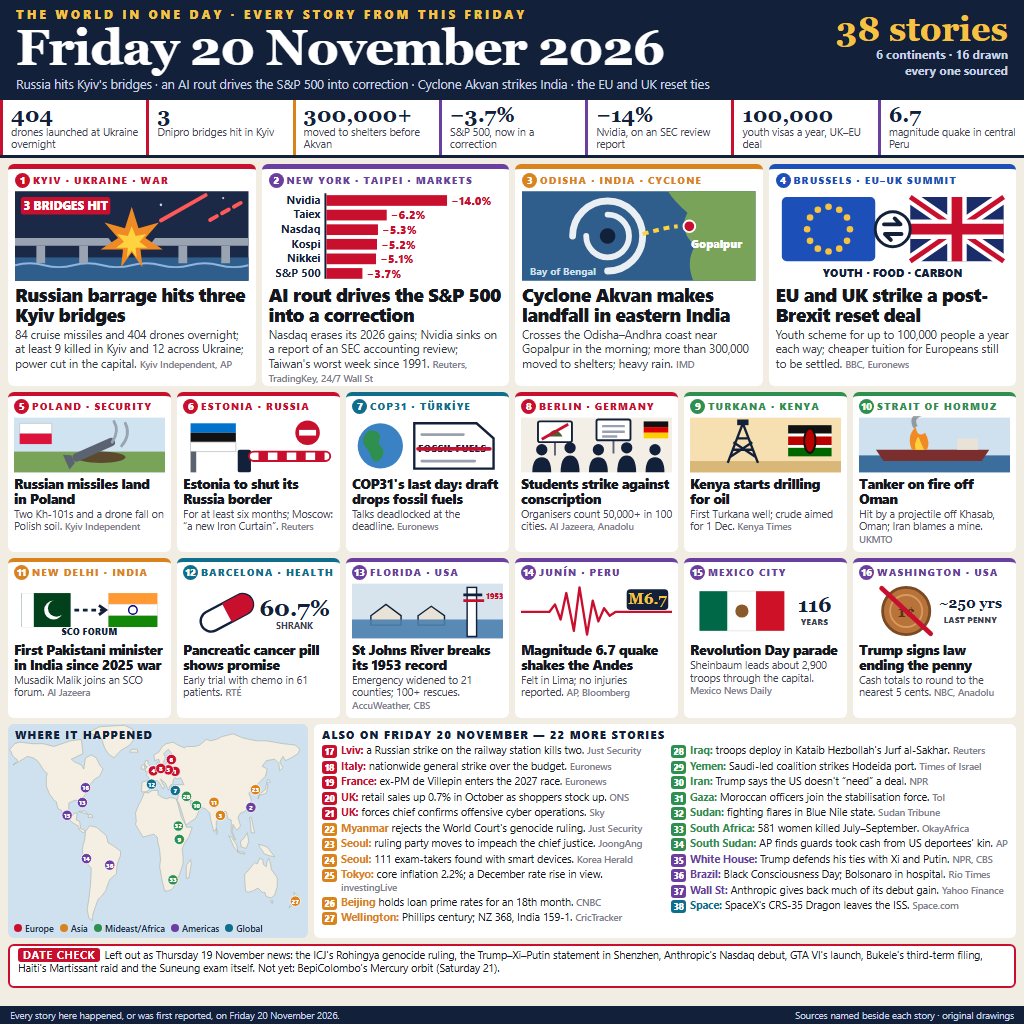
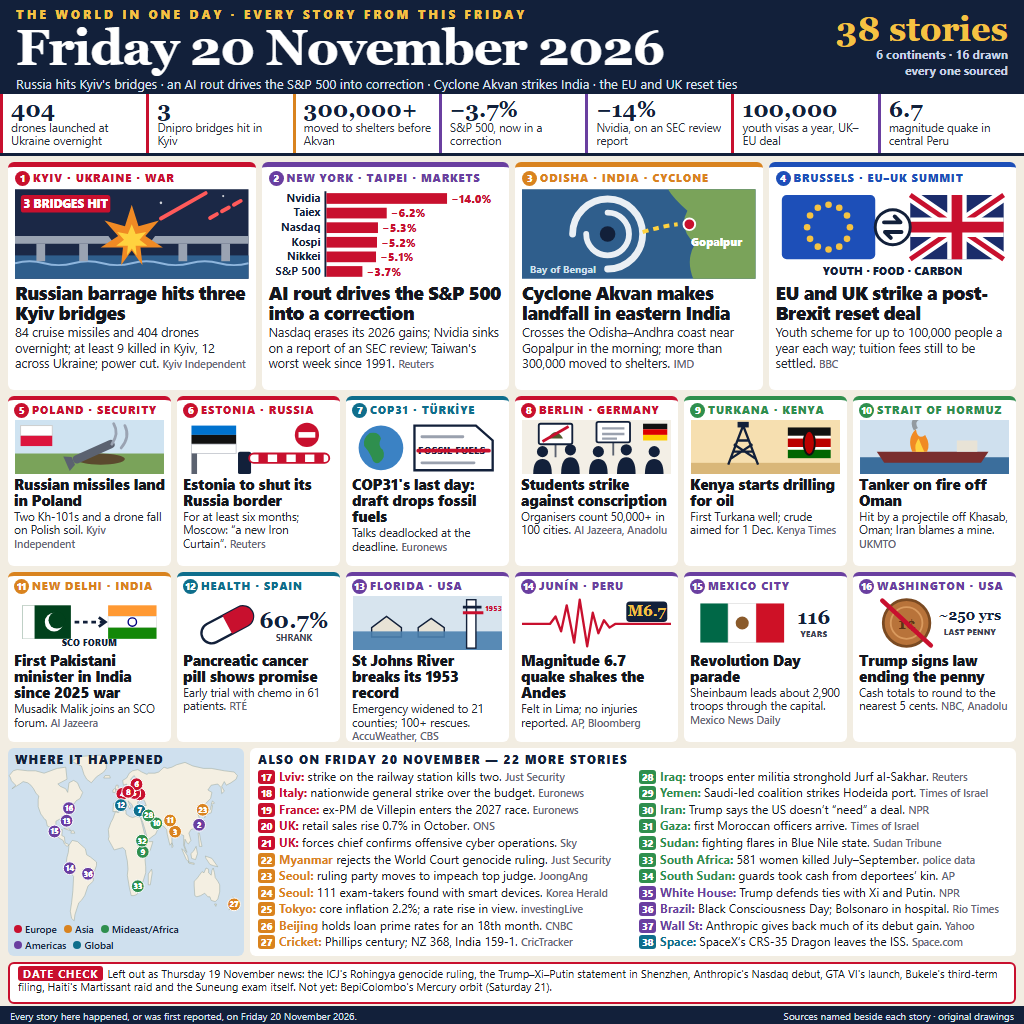
Make every label legible at small sizes: larger type, one-line briefs, bigger map pins

diff --git a/poster.html b/poster.html
@@ -14,51 +14,51 @@
   body { background: #f2ede2; color: #14171e; font-family: "Segoe UI", Arial, sans-serif; position: relative; }
   :root { --navy: #12203a; --gold: #f5c242; --eu: #c8102e; --as: #d9831f; --me: #2f8f4e; --am: #6a3fa0; --gl: #0f6e8c; }
 
-  header { height: 100px; background: var(--navy); color: #fff; padding: 6px 16px 0; display: flex; justify-content: space-between; align-items: flex-start; }
+  header { height: 94px; background: var(--navy); color: #fff; padding: 6px 16px 0; display: flex; justify-content: space-between; align-items: flex-start; }
   .kicker { font-size: 12px; font-weight: 800; letter-spacing: 3px; color: var(--gold); }
   h1 { font-family: Georgia, "Times New Roman", serif; font-size: 50px; line-height: 1.02; letter-spacing: -1px; }
-  .lede { font-size: 12.5px; color: #c9d3e6; margin-top: 3px; }
+  .lede { font-size: 13px; color: #dde4f0; margin-top: 2px; }
   .count { margin-top: 6px; text-align: right; font-size: 12px; font-weight: 700; line-height: 1.35; color: #c9d3e6; }
   .count b { font-family: Georgia, serif; font-size: 34px; color: var(--gold); line-height: 1; display: block; }
 
   .stats { display: grid; grid-template-columns: repeat(7, 1fr); background: #fff; border-bottom: 3px solid var(--navy); }
   .stat { padding: 4px 8px 5px; border-left: 3px solid var(--c); }
-  .stat b { display: block; font-family: Georgia, serif; font-size: 21px; line-height: 1.05; color: var(--navy); }
-  .stat span { font-size: 10.5px; line-height: 1.15; color: #3d4352; display: block; }
+  .stat b { display: block; font-family: Georgia, serif; font-size: 22px; line-height: 1.05; color: var(--navy); }
+  .stat span { font-size: 11.5px; line-height: 1.15; color: #2a2f3a; display: block; }
 
   .heroes { display: grid; grid-template-columns: repeat(4, 1fr); gap: 6px; padding: 6px 8px 0; }
-  .hero { background: #fff; border-radius: 6px; border-top: 5px solid var(--c); padding: 4px 7px 5px; height: 222px; overflow: hidden; }
-  .tag { font-size: 10px; font-weight: 800; letter-spacing: 1.2px; color: var(--c); white-space: nowrap; overflow: hidden; }
+  .hero { background: #fff; border-radius: 6px; border-top: 5px solid var(--c); padding: 4px 7px 5px; height: 228px; overflow: hidden; }
+  .tag { font-size: 10.5px; font-weight: 800; letter-spacing: 1.2px; color: var(--c); white-space: nowrap; overflow: hidden; }
   .tag i { font-style: normal; display: inline-block; background: var(--c); color: #fff; border-radius: 50%; width: 15px; height: 15px; text-align: center; line-height: 15px; font-size: 9.5px; letter-spacing: 0; margin-right: 3px; }
   .hero .art { height: 92px; margin: 2px 0 3px; }
   .hero .art svg { width: 100%; height: 92px; display: block; }
   .hero h2 { font-size: 18.5px; line-height: 1.08; font-weight: 800; letter-spacing: -0.3px; }
-  .hero p { font-size: 11.5px; line-height: 1.25; color: #353b48; margin-top: 3px; }
-  .src { color: #7a808c; font-size: 9.5px; font-weight: 600; }
+  .hero p { font-size: 12.5px; line-height: 1.22; color: #22262f; margin-top: 3px; }
+  .src { color: #5f6573; font-size: 10.5px; font-weight: 600; }
 
   .cards { display: grid; grid-template-columns: repeat(6, 1fr); gap: 6px; padding: 6px 8px 0; }
-  .card { background: #fff; border-radius: 6px; border-top: 4px solid var(--c); padding: 3px 6px 4px; height: 160px; overflow: hidden; }
-  .card .art { height: 58px; margin: 2px 0 2px; }
-  .card .art svg { width: 100%; height: 58px; display: block; }
-  .card h3 { font-size: 13.5px; line-height: 1.1; font-weight: 800; letter-spacing: -0.2px; }
-  .card p { font-size: 10.5px; line-height: 1.2; color: #3d4352; margin-top: 2px; }
+  .card { background: #fff; border-radius: 6px; border-top: 4px solid var(--c); padding: 3px 6px 4px; height: 170px; overflow: hidden; }
+  .card .art { height: 54px; margin: 2px 0 2px; }
+  .card .art svg { width: 100%; height: 54px; display: block; }
+  .card h3 { font-size: 15px; line-height: 1.08; font-weight: 800; letter-spacing: -0.2px; }
+  .card p { font-size: 11.5px; line-height: 1.18; color: #22262f; margin-top: 2px; }
 
-  .bottom { display: grid; grid-template-columns: 300px 1fr; gap: 6px; padding: 6px 8px 0; }
-  .mapbox { background: #cfe0ee; border-radius: 6px; height: 214px; position: relative; overflow: hidden; }
-  .mapbox h4, .list h4 { font-size: 10.5px; font-weight: 900; letter-spacing: 1.5px; color: var(--navy); }
+  .bottom { display: grid; grid-template-columns: 236px 1fr; gap: 6px; padding: 6px 8px 0; }
+  .mapbox { background: #cfe0ee; border-radius: 6px; height: 208px; position: relative; overflow: hidden; }
+  .mapbox h4, .list h4 { font-size: 11.5px; font-weight: 900; letter-spacing: 1.5px; color: var(--navy); }
   .mapbox h4 { position: absolute; left: 7px; top: 4px; }
-  .legend { position: absolute; left: 6px; bottom: 4px; display: flex; gap: 6px; font-size: 9px; color: var(--navy); font-weight: 600; }
+  .legend { position: absolute; left: 6px; bottom: 4px; display: flex; flex-wrap: wrap; gap: 2px 7px; font-size: 10px; width: 224px; color: var(--navy); font-weight: 600; }
   .legend span::before { content: ""; display: inline-block; width: 8px; height: 8px; border-radius: 50%; background: var(--c); margin-right: 3px; }
-  .list { background: #fff; border-radius: 6px; height: 214px; padding: 4px 8px; overflow: hidden; }
+  .list { background: #fff; border-radius: 6px; height: 208px; padding: 4px 8px; overflow: hidden; }
   .list ol { list-style: none; columns: 2; column-gap: 12px; margin-top: 2px; }
-  .list li { font-size: 10.6px; line-height: 1.22; margin-bottom: 1.5px; break-inside: avoid; display: flex; gap: 4px; }
-  .list li .no { flex: 0 0 15px; height: 13px; border-radius: 3px; background: var(--c); color: #fff; font-size: 8.5px; font-weight: 800; text-align: center; line-height: 13px; margin-top: 1px; }
+  .list li { font-size: 12px; line-height: 1.2; margin-bottom: 1.6px; break-inside: avoid; display: flex; gap: 4px; }
+  .list li .no { flex: 0 0 17px; height: 14px; border-radius: 3px; background: var(--c); color: #fff; font-size: 9.5px; font-weight: 800; text-align: center; line-height: 14px; margin-top: 1px; }
   .list li b { color: var(--c); }
 
-  .datecheck { margin: 6px 8px 0; border: 2px solid var(--eu); border-radius: 6px; background: #fff; padding: 3px 8px; font-size: 10.5px; line-height: 1.25; height: 44px; overflow: hidden; }
+  .datecheck { margin: 6px 8px 0; border: 2px solid var(--eu); border-radius: 6px; background: #fff; padding: 3px 8px; font-size: 11px; line-height: 1.25; height: 42px; overflow: hidden; }
   .datecheck b.h { background: var(--eu); color: #fff; padding: 0 5px; border-radius: 3px; margin-right: 4px; letter-spacing: 1px; }
 
-  footer { position: absolute; left: 0; right: 0; bottom: 0; height: 18px; background: var(--navy); color: #c9d3e6; font-size: 9.5px; padding: 3px 10px; display: flex; justify-content: space-between; }
+  footer { position: absolute; left: 0; right: 0; bottom: 0; height: 18px; background: var(--navy); color: #dde4f0; font-size: 10px; padding: 3px 10px; display: flex; justify-content: space-between; }
 </style>
 </head>
 <body>
@@ -100,7 +100,7 @@
       <text x="52" y="19" text-anchor="middle" font-size="12" font-weight="800" fill="#fff" font-family="Segoe UI, Arial">3 BRIDGES HIT</text>
     </svg></div>
     <h2>Russian barrage hits three Kyiv bridges</h2>
-    <p>84 cruise missiles and 404 drones overnight; at least 9 killed in Kyiv and 12 across Ukraine; power cut in the capital. <span class="src">Kyiv Independent, AP</span></p>
+    <p>84 cruise missiles and 404 drones overnight; at least 9 killed in Kyiv, 12 across Ukraine; power cut. <span class="src">Kyiv Independent</span></p>
   </section>
 
   <section class="hero" style="--c:var(--am)">
@@ -122,7 +122,7 @@
       </g>
     </svg></div>
     <h2>AI rout drives the S&amp;P 500 into a correction</h2>
-    <p>Nasdaq erases its 2026 gains; Nvidia sinks on a report of an SEC accounting review; Taiwan's worst week since 1991. <span class="src">Reuters, TradingKey, 24/7 Wall St</span></p>
+    <p>Nasdaq erases its 2026 gains; Nvidia sinks on a report of an SEC review; Taiwan's worst week since 1991. <span class="src">Reuters</span></p>
   </section>
 
   <section class="hero" style="--c:var(--as)">
@@ -141,7 +141,7 @@
       <text x="8" y="86" font-size="10.5" font-weight="700" fill="#cfe0ee" font-family="Segoe UI, Arial">Bay of Bengal</text>
     </svg></div>
     <h2>Cyclone Akvan makes landfall in eastern India</h2>
-    <p>Crosses the Odisha–Andhra coast near Gopalpur in the morning; more than 300,000 moved to shelters; heavy rain. <span class="src">IMD</span></p>
+    <p>Crosses the Odisha–Andhra coast near Gopalpur in the morning; more than 300,000 moved to shelters. <span class="src">IMD</span></p>
   </section>
 
   <section class="hero" style="--c:#1d4fb8">
@@ -165,7 +165,7 @@
       <text x="120" y="88" text-anchor="middle" font-size="11.5" font-weight="800" fill="#12203a" font-family="Segoe UI, Arial">YOUTH · FOOD · CARBON</text>
     </svg></div>
     <h2>EU and UK strike a post-Brexit reset deal</h2>
-    <p>Youth scheme for up to 100,000 people a year each way; cheaper tuition for Europeans still to be settled. <span class="src">BBC, Euronews</span></p>
+    <p>Youth scheme for up to 100,000 people a year each way; tuition fees still to be settled. <span class="src">BBC</span></p>
   </section>
 </div>
 
@@ -271,7 +271,7 @@
   </section>
 
   <section class="card" style="--c:var(--gl)">
-    <div class="tag"><i>12</i>BARCELONA · HEALTH</div>
+    <div class="tag"><i>12</i>HEALTH · SPAIN</div>
     <div class="art"><svg viewBox="0 0 160 58" aria-hidden="true">
       <g transform="rotate(-28 46 30)"><rect x="16" y="20" width="60" height="22" rx="11" fill="#fff" stroke="#12203a" stroke-width="2.5"/><path d="M46 20 H65 A11 11 0 0 1 65 42 H46 Z" fill="#c8102e"/></g>
       <text x="118" y="34" text-anchor="middle" font-family="Georgia, serif" font-size="24" font-weight="700" fill="#12203a">60.7%</text>
@@ -335,35 +335,35 @@
 
 <div class="bottom">
   <div class="mapbox">
-    <svg id="map" width="300" height="214" viewBox="0 0 300 214" aria-hidden="true"></svg>
+    <svg id="map" width="236" height="208" viewBox="0 0 236 208" aria-hidden="true"></svg>
     <h4>WHERE IT HAPPENED</h4>
     <div class="legend"><span style="--c:var(--eu)">Europe</span><span style="--c:var(--as)">Asia</span><span style="--c:var(--me)">Mideast/Africa</span><span style="--c:var(--am)">Americas</span><span style="--c:var(--gl)">Global</span></div>
   </div>
   <div class="list">
     <h4>ALSO ON FRIDAY 20 NOVEMBER — 22 MORE STORIES</h4>
     <ol>
-      <li style="--c:var(--eu)"><span class="no">17</span><span><b>Lviv:</b> a Russian strike on the railway station kills two. <span class="src">Just Security</span></span></li>
+      <li style="--c:var(--eu)"><span class="no">17</span><span><b>Lviv:</b> strike on the railway station kills two. <span class="src">Just Security</span></span></li>
       <li style="--c:var(--eu)"><span class="no">18</span><span><b>Italy:</b> nationwide general strike over the budget. <span class="src">Euronews</span></span></li>
       <li style="--c:var(--eu)"><span class="no">19</span><span><b>France:</b> ex-PM de Villepin enters the 2027 race. <span class="src">Euronews</span></span></li>
-      <li style="--c:var(--eu)"><span class="no">20</span><span><b>UK:</b> retail sales up 0.7% in October as shoppers stock up. <span class="src">ONS</span></span></li>
+      <li style="--c:var(--eu)"><span class="no">20</span><span><b>UK:</b> retail sales rise 0.7% in October. <span class="src">ONS</span></span></li>
       <li style="--c:var(--eu)"><span class="no">21</span><span><b>UK:</b> forces chief confirms offensive cyber operations. <span class="src">Sky</span></span></li>
-      <li style="--c:var(--as)"><span class="no">22</span><span><b>Myanmar</b> rejects the World Court's genocide ruling. <span class="src">Just Security</span></span></li>
-      <li style="--c:var(--as)"><span class="no">23</span><span><b>Seoul:</b> ruling party moves to impeach the chief justice. <span class="src">JoongAng</span></span></li>
+      <li style="--c:var(--as)"><span class="no">22</span><span><b>Myanmar</b> rejects the World Court genocide ruling. <span class="src">Just Security</span></span></li>
+      <li style="--c:var(--as)"><span class="no">23</span><span><b>Seoul:</b> ruling party moves to impeach top judge. <span class="src">JoongAng</span></span></li>
       <li style="--c:var(--as)"><span class="no">24</span><span><b>Seoul:</b> 111 exam-takers found with smart devices. <span class="src">Korea Herald</span></span></li>
-      <li style="--c:var(--as)"><span class="no">25</span><span><b>Tokyo:</b> core inflation 2.2%; a December rate rise in view. <span class="src">investingLive</span></span></li>
+      <li style="--c:var(--as)"><span class="no">25</span><span><b>Tokyo:</b> core inflation 2.2%; a rate rise in view. <span class="src">investingLive</span></span></li>
       <li style="--c:var(--as)"><span class="no">26</span><span><b>Beijing</b> holds loan prime rates for an 18th month. <span class="src">CNBC</span></span></li>
-      <li style="--c:var(--as)"><span class="no">27</span><span><b>Wellington:</b> Phillips century; NZ 368, India 159-1. <span class="src">CricTracker</span></span></li>
-      <li style="--c:var(--me)"><span class="no">28</span><span><b>Iraq:</b> troops deploy in Kataib Hezbollah's Jurf al-Sakhar. <span class="src">Reuters</span></span></li>
+      <li style="--c:var(--as)"><span class="no">27</span><span><b>Cricket:</b> Phillips century; NZ 368, India 159-1. <span class="src">CricTracker</span></span></li>
+      <li style="--c:var(--me)"><span class="no">28</span><span><b>Iraq:</b> troops enter militia stronghold Jurf al-Sakhar. <span class="src">Reuters</span></span></li>
       <li style="--c:var(--me)"><span class="no">29</span><span><b>Yemen:</b> Saudi-led coalition strikes Hodeida port. <span class="src">Times of Israel</span></span></li>
-      <li style="--c:var(--me)"><span class="no">30</span><span><b>Iran:</b> Trump says the US doesn't “need” a deal. <span class="src">NPR</span></span></li>
-      <li style="--c:var(--me)"><span class="no">31</span><span><b>Gaza:</b> Moroccan officers join the stabilisation force. <span class="src">ToI</span></span></li>
+      <li style="--c:var(--me)"><span class="no">30</span><span><b>Iran:</b> Trump says the US doesn’t “need” a deal. <span class="src">NPR</span></span></li>
+      <li style="--c:var(--me)"><span class="no">31</span><span><b>Gaza:</b> first Moroccan officers arrive. <span class="src">Times of Israel</span></span></li>
       <li style="--c:var(--me)"><span class="no">32</span><span><b>Sudan:</b> fighting flares in Blue Nile state. <span class="src">Sudan Tribune</span></span></li>
-      <li style="--c:var(--me)"><span class="no">33</span><span><b>South Africa:</b> 581 women killed July–September. <span class="src">OkayAfrica</span></span></li>
-      <li style="--c:var(--me)"><span class="no">34</span><span><b>South Sudan:</b> AP finds guards took cash from US deportees' kin. <span class="src">AP</span></span></li>
-      <li style="--c:var(--am)"><span class="no">35</span><span><b>White House:</b> Trump defends his ties with Xi and Putin. <span class="src">NPR, CBS</span></span></li>
+      <li style="--c:var(--me)"><span class="no">33</span><span><b>South Africa:</b> 581 women killed July–September. <span class="src">police data</span></span></li>
+      <li style="--c:var(--me)"><span class="no">34</span><span><b>South Sudan:</b> guards took cash from deportees’ kin. <span class="src">AP</span></span></li>
+      <li style="--c:var(--am)"><span class="no">35</span><span><b>White House:</b> Trump defends ties with Xi and Putin. <span class="src">NPR</span></span></li>
       <li style="--c:var(--am)"><span class="no">36</span><span><b>Brazil:</b> Black Consciousness Day; Bolsonaro in hospital. <span class="src">Rio Times</span></span></li>
-      <li style="--c:var(--am)"><span class="no">37</span><span><b>Wall St:</b> Anthropic gives back much of its debut gain. <span class="src">Yahoo Finance</span></span></li>
-      <li style="--c:var(--gl)"><span class="no">38</span><span><b>Space:</b> SpaceX's CRS-35 Dragon leaves the ISS. <span class="src">Space.com</span></span></li>
+      <li style="--c:var(--am)"><span class="no">37</span><span><b>Wall St:</b> Anthropic gives back much of its debut gain. <span class="src">Yahoo</span></span></li>
+      <li style="--c:var(--gl)"><span class="no">38</span><span><b>Space:</b> SpaceX’s CRS-35 Dragon leaves the ISS. <span class="src">Space.com</span></span></li>
     </ol>
   </div>
 </div>
@@ -375,9 +375,9 @@
 <script src="world.js"></script>
 <script>
 // Equirectangular map of the coarse coastlines in world.js, cropped to 74N..56S, with a pin per story.
-const W = 300, H = 214, LON0 = -170, LAT_N = 74, LAT_S = -56;
+const W = 236, H = 208, LON0 = -170, LAT_N = 74, LAT_S = -56;
 const px = (lon) => ((lon - LON0 + 360) % 360) / 360 * W;
-const py = (lat) => 14 + (LAT_N - lat) / (LAT_N - LAT_S) * (H - 30);
+const py = (lat) => 18 + (LAT_N - lat) / (LAT_N - LAT_S) * (H - 52);
 const C = { eu: '#c8102e', as: '#d9831f', me: '#2f8f4e', am: '#6a3fa0', gl: '#0f6e8c' };
 // [story, lon, lat, region]
 const PINS = [
@@ -395,8 +395,8 @@ for (const shape of window.LAND) {
 }
 for (const [n, lon, lat, r] of PINS) {
   const x = px(lon), y = py(lat);
-  add('circle', { cx: x, cy: y, r: 5.2, fill: C[r], stroke: '#fff', 'stroke-width': 0.8 });
-  const t = add('text', { x, y: y + 2.4, 'text-anchor': 'middle', 'font-size': 6.2, 'font-weight': 800, fill: '#fff', 'font-family': 'Segoe UI, Arial' });
+  add('circle', { cx: x, cy: y, r: 6.4, fill: C[r], stroke: '#fff', 'stroke-width': 1 });
+  const t = add('text', { x, y: y + 2.9, 'text-anchor': 'middle', 'font-size': 7.6, 'font-weight': 800, fill: '#fff', 'font-family': 'Segoe UI, Arial' });
   t.textContent = n;
 }
 </script>
